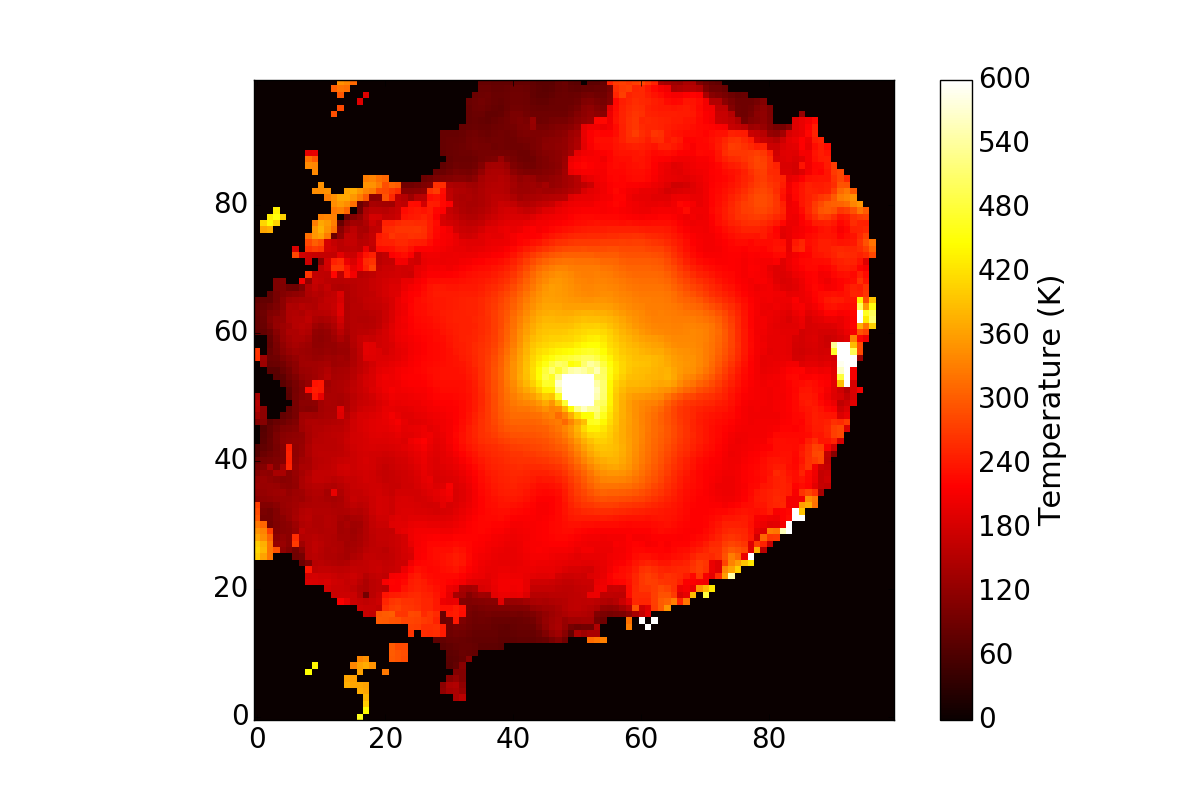
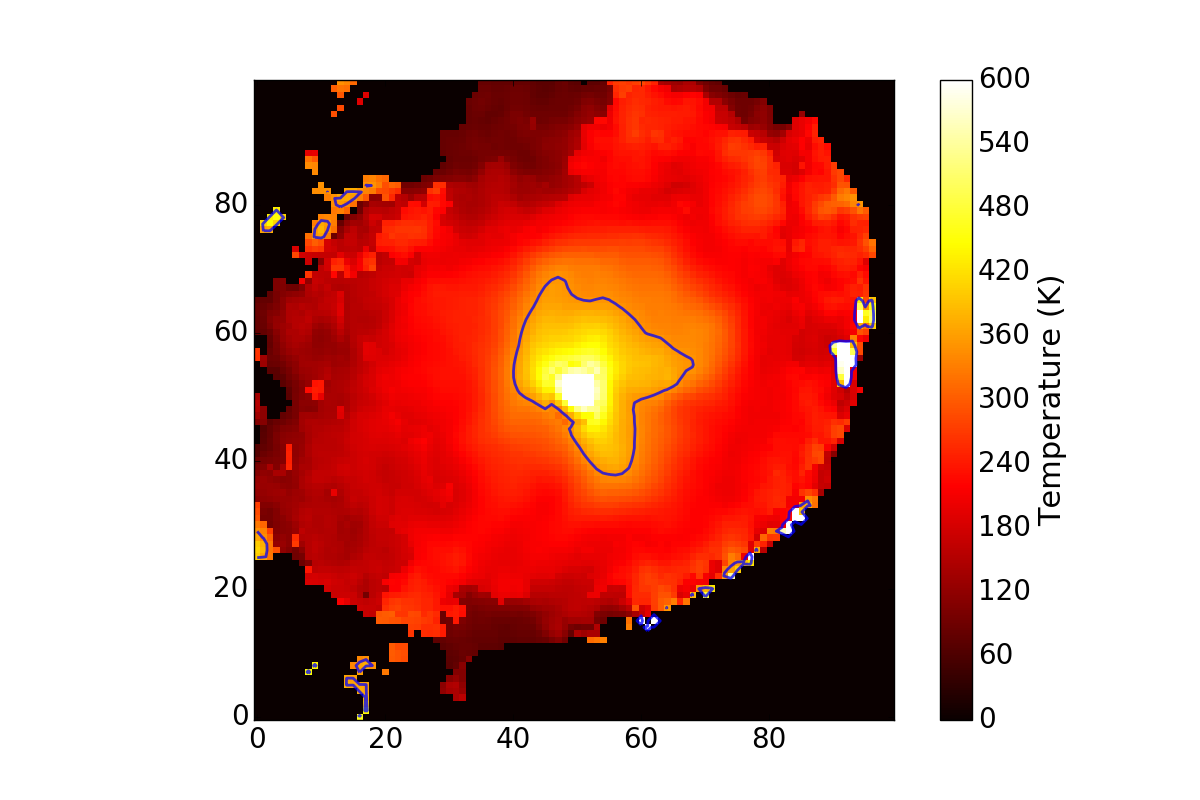
cooking joke

diff --git a/cores_and_outflows/cores_and_outflows.tex b/cores_and_outflows/cores_and_outflows.tex
@@ -2,7 +2,8 @@
 \input{preface}
 \begin{document}
 %\title{Cores and Outflows and Chemistry in the W51 Protoclusters}
-\title{Thermal Feedback in the high-mass star and cluster forming region W51}
+\title{Thermal Feedback in the high-mass star and cluster forming region W51:
+       Massive Protostars like their food well-done}
 \titlerunning{Thermal Feedback W51}
 \authorrunning{Ginsburg et al}
 \input{authors}
@@ -981,10 +982,12 @@ there are some lines in band that have much lower Einstein $A_{i,j}$ values
 but comparable upper-state energy levels, allowing us to probe higher column
 densities than would otherwise be possible.
 
+% ch3oh_rotational_diagram_maps
 \FigureTwo{figures/ch3oh_temperature_map_e2.png}{figures/ch3oh_column_map_e2.png}
 {Methanol temperature and column density maps around e2.  The central regions around
 the cores appear to have lower column densities because the lines become
-optically thick and self-absorbed.}
+optically thick and self-absorbed.  The contour in the temperature map is at
+350 K, where red meat is typically considered ``well-done''.}
 {fig:ch3ohe2}{1}{10cm}
 
 Sample fitted rotational diagrams are displayed in Figure \ref{fig:ch3ohe2rot}.

diff --git a/analysis/ch3oh_rotational_diagram_maps.py b/analysis/ch3oh_rotational_diagram_maps.py
@@ -565,8 +565,10 @@ if __name__ == "__main__":
                                     replace_bad=replace_bad)
 
             pl.figure(1).clf()
-            pl.imshow(tmap, vmin=0, vmax=600, cmap='hot')
-            cb = pl.colorbar()
+            im = pl.imshow(tmap, vmin=0, vmax=600, cmap='hot')
+            # contour at T=350K = 170F, "well done"
+            pl.contour(tmap, levels=[350], colors=['b'], linewidth=0.5, alpha=0.75)
+            cb = pl.colorbar(mappable=im)
             cb.set_label("Temperature (K)")
             pl.savefig(paths.fpath("chemistry/ch3oh_temperature_map_{0}.png".format(sourcename)))
             pl.figure(3).clf()
